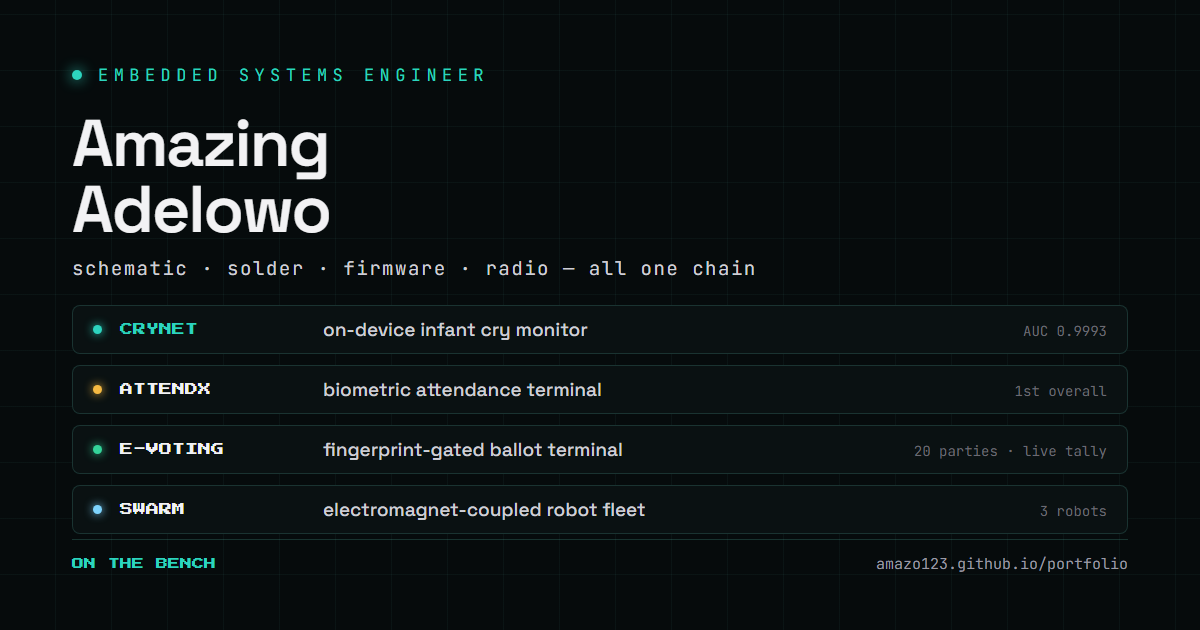
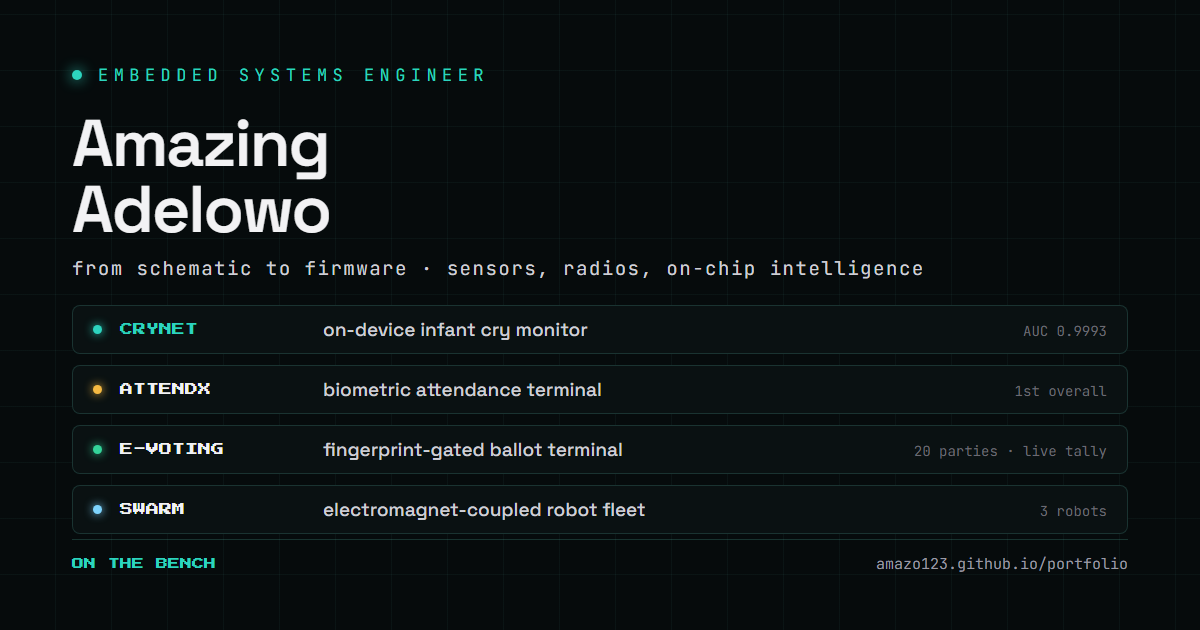
Centered layout, pill CTAs, skills marquee, cleaner home
- Hero and contact are centered single columns; ticker eyebrow,
  coordinates line and device note removed
- Buttons, chips and nav CTAs are full pills; cards/panels 12-16px
- Two-row toolbox marquee (opposite directions, edge fade, pauses on
  hover, static under reduced motion) with skills from the resume
- Faint bench-grid background + centered accent glow, both themes
- Footer base: (c) / actively maintained dot / location, uptime line
  removed; default OG regenerated for the new hero line

Changed region(s): [[0.0617, 0.3921, 0.6167, 0.4524], [0.6475, 0.4222, 0.7708, 0.4524]]

diff --git a/src/styles/global.css b/src/styles/global.css
@@ -45,7 +45,7 @@
   --btn-hover-bg: rgba(45, 212, 191, 0.05);
   --primary-ink: #02110f;
   --body-glow:
-    radial-gradient(1200px 600px at 75% -10%, rgba(45, 212, 191, 0.055), transparent 60%),
+    radial-gradient(1100px 560px at 50% -8%, rgba(45, 212, 191, 0.075), transparent 65%),
     radial-gradient(900px 500px at 10% 105%, rgba(45, 212, 191, 0.035), transparent 60%);
   --portrait-bg:
     repeating-linear-gradient(45deg, transparent, transparent 12px, rgba(110, 231, 213, 0.035) 12px, rgba(110, 231, 213, 0.035) 24px),
@@ -58,7 +58,8 @@
 
   --shell: 1240px;
   --gutter: clamp(1.25rem, 4vw, 3.5rem);
-  --radius: 4px;
+  --radius: 12px;
+  --radius-pill: 999px;
   --nav-h: 62px;
 
   --ease: cubic-bezier(0.22, 0.61, 0.36, 1);
@@ -106,7 +107,7 @@
   --btn-hover-bg: rgba(12, 133, 119, 0.08);
   --primary-ink: #ffffff;
   --body-glow:
-    radial-gradient(1200px 600px at 75% -10%, rgba(12, 133, 119, 0.05), transparent 60%),
+    radial-gradient(1100px 560px at 50% -8%, rgba(12, 133, 119, 0.06), transparent 65%),
     radial-gradient(900px 500px at 10% 105%, rgba(12, 133, 119, 0.03), transparent 60%);
   --portrait-bg:
     repeating-linear-gradient(45deg, transparent, transparent 12px, rgba(12, 133, 119, 0.05) 12px, rgba(12, 133, 119, 0.05) 24px),
@@ -283,9 +284,9 @@ h1, h2, h3, h4, h5 {
   display: inline-flex;
   align-items: center;
   gap: 0.6rem;
-  padding: 0.72rem 1.15rem;
+  padding: 0.72rem 1.4rem;
   border: 1px solid var(--line-strong);
-  border-radius: var(--radius);
+  border-radius: var(--radius-pill);
   background: transparent;
   color: var(--text);
   font-family: var(--font-mono);
@@ -356,9 +357,9 @@ h1, h2, h3, h4, h5 {
 .chip {
   display: inline-flex;
   align-items: center;
-  padding: 0.28rem 0.6rem;
+  padding: 0.3rem 0.8rem;
   border: 1px solid var(--line);
-  border-radius: 2px;
+  border-radius: var(--radius-pill);
   font-family: var(--font-mono);
   font-size: 0.66rem;
   letter-spacing: 0.1em;
@@ -496,8 +497,8 @@ h1, h2, h3, h4, h5 {
   font-size: 0.86em;
   color: var(--accent-hi);
   background: var(--panel-teal);
-  padding: 0.12em 0.38em;
-  border-radius: 2px;
+  padding: 0.12em 0.5em;
+  border-radius: 6px;
 }
 
 /* -------------------------------------------------------------- callout */
@@ -579,12 +580,12 @@ h1, h2, h3, h4, h5 {
   left: 0.75rem;
   top: -100px;
   z-index: 200;
-  padding: 0.6rem 1rem;
+  padding: 0.6rem 1.1rem;
   background: var(--accent);
   color: var(--primary-ink);
   font-family: var(--font-mono);
   font-size: 0.72rem;
-  border-radius: var(--radius);
+  border-radius: var(--radius-pill);
   transition: top 0.2s var(--ease);
 }
 .skip-link:focus { top: 0.75rem; }
